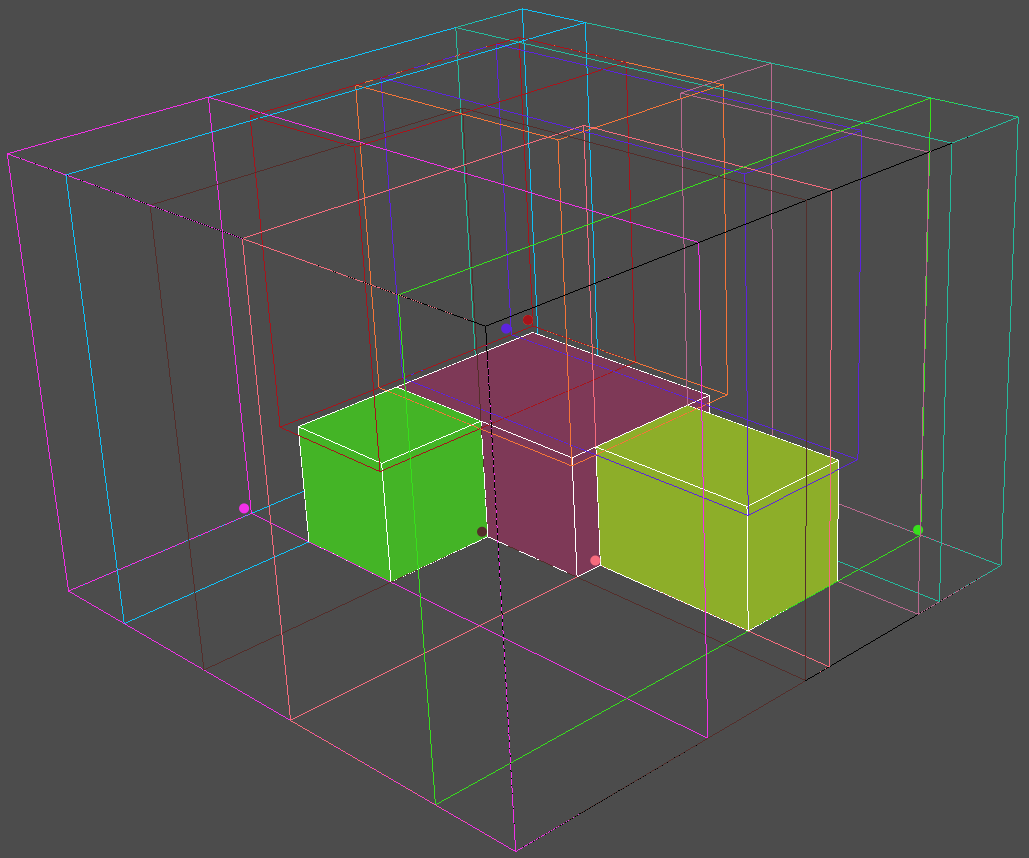
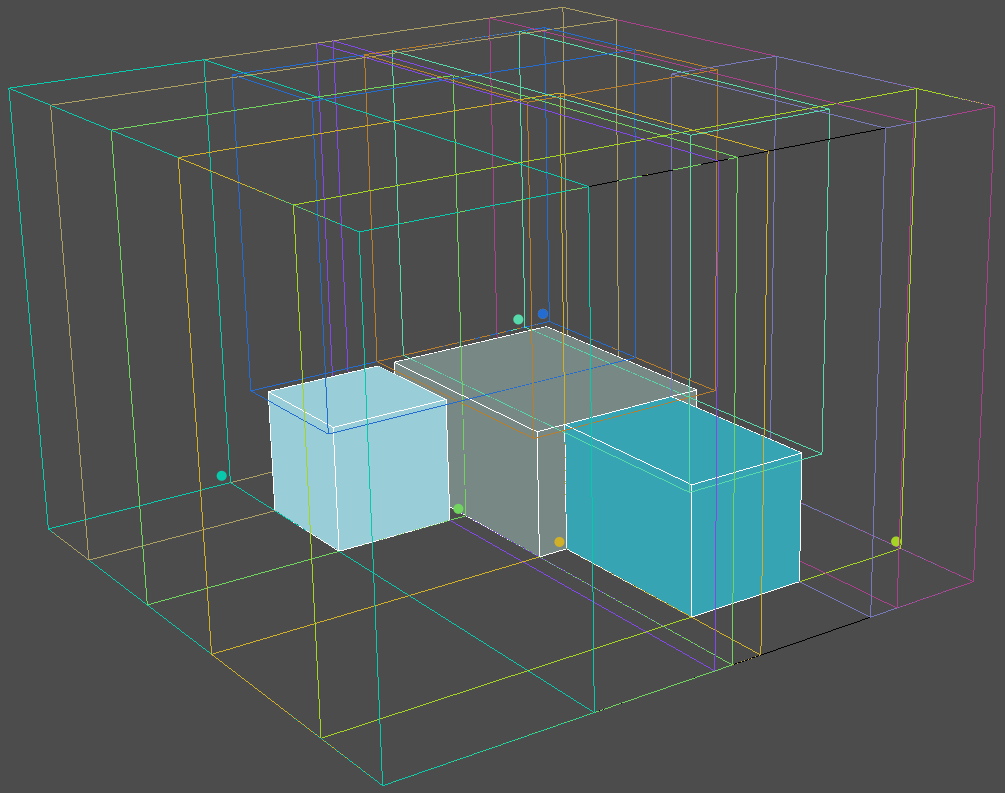
fix area leap

diff --git a/core/src/main/java/org/strauteka/jbin/core/Space.java b/core/src/main/java/org/strauteka/jbin/core/Space.java
@@ -72,8 +72,8 @@ public class Space extends Size {
         final boolean l = this.l__() == s.l_() && os.w() > 0 && os.h() > 0
                 && ((h_() < s.h_() ? l() : s.l()) <= conf.l_() || h_() == s.h_());
         // Merging expanded space. Overlap exact config size
-        final boolean wx = os.w() == conf.w() && os.l() > 0 && os.h() > 0 && h_() == s.h_();
-        final boolean lx = os.l() == conf.l() && os.w() > 0 && os.h() > 0 && h_() == s.h_();
+        final boolean wx = os.w() > 0 && os.w() <= conf.w() && os.l() > 0 && os.h() > 0 && h_() == s.h_();
+        final boolean lx = os.l() > 0 && os.l() <= conf.l() && os.w() > 0 && os.h() > 0 && h_() == s.h_();
         return w || l || wx || lx;
     }
 
@@ -157,13 +157,15 @@ public class Space extends Size {
             final Space s = new Space(expand(h_() - space.h_(), l(), space.l(), conf.l()), (h__ - h_), os.w(), new Size(
                     findPosition(h_() - space.h_(), l_(), space.l_(), conf.l()), h_, Math.max(w_(), space.w_())));
             collector.add(s);
-        } else if (os.w() == conf.w() && os.l() > 0) { // Merging expanded space. Overlap exact config size
+        } else if (os.w() > 0 && os.w() <= conf.w() && os.l() > 0) { // Merging expanded space. Overlap exact config
+                                                                     // size
             final int h_ = Math.max(h_(), space.h_());
             final int h__ = Math.min(h__(), space.h__());
             final Space s = new Space(os.l(), (h__ - h_), w() + space.w() - os.w(),
                     new Size(Math.max(l_(), space.l_()), h_, Math.min(w_(), space.w_())));
             collector.add(s);
-        } else if (os.l() == conf.l() && os.w() > 0) { // Merging expanded space. Overlap exact config size
+        } else if (os.l() > 0 && os.l() <= conf.l() && os.w() > 0) { // Merging expanded space. Overlap exact config
+                                                                     // size
             final int h_ = Math.max(h_(), space.h_());
             final int h__ = Math.min(h__(), space.h__());
             final Space s = new Space(l() + space.l() - os.l(), (h__ - h_), os.w(),

diff --git a/demo/src/main/java/org/strauteka/jbin/demo/Development.java b/demo/src/main/java/org/strauteka/jbin/demo/Development.java
@@ -13,8 +13,8 @@ public class Development {
 
     public static void draw() {
         List<Bin> bins = new ArrayList<>();
-        bins.add(test2());
-        bins.add(test3());
+        // bins.add(test2());
+        // bins.add(test3());
         bins.add(test4());
         Draw3d.draw(bins.toArray(new Bin[0]));
     }
@@ -52,7 +52,7 @@ public class Development {
         final Bin b = new Bin(new Size(1000, 700, 1000), new StackConfig(20, 1000, 20, 1000));
         final Cargo<Size> w = new Cargo<Size>(new Size(300, 200, 400), new Size(150, 0, 150));
         final Cargo<Size> x = new Cargo<Size>(new Size(200, 200, 300), new Size(200, 0, 550));
-        final Cargo<Size> y = new Cargo<Size>(new Size(200, 200, 200), new Size(450, 0, 150));
+        final Cargo<Size> y = new Cargo<Size>(new Size(200, 200, 200), new Size(480, 0, 150));
 
         b.add(x);
         b.add(y);

diff --git a/demo/src/main/java/org/strauteka/jbin/demo/App.java b/demo/src/main/java/org/strauteka/jbin/demo/App.java
@@ -6,7 +6,7 @@ import org.strauteka.jbin.draw3d.Draw3d;
 
 public class App {
     public static void main(String[] args) {
-        // Development.draw();
+        Development.draw();
         // Demo.drawRotations();
         Demo.draw();
         Draw3d.draw(false, PackerEntry.calculate(2000, 3).toArray(new Bin[0]));
